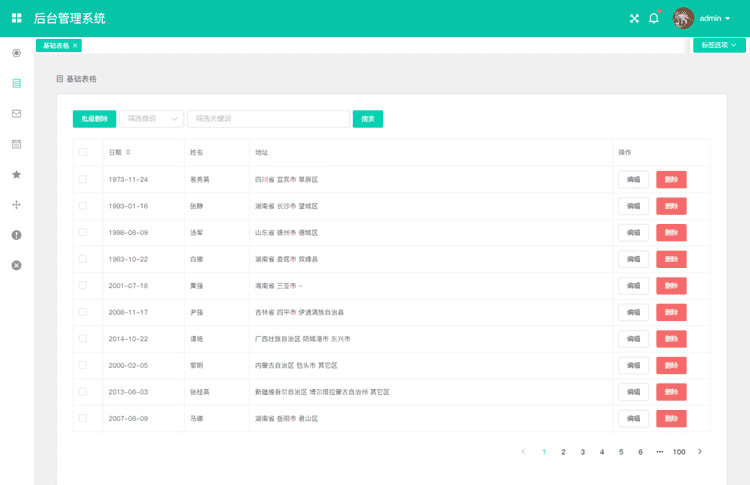
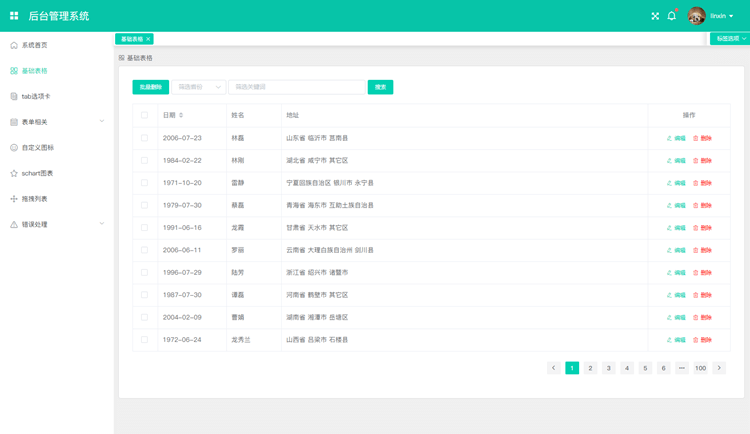
'修改页面图标和截图'

diff --git a/src/components/page/BaseCharts.vue b/src/components/page/BaseCharts.vue
@@ -2,8 +2,7 @@
     <div>
         <div class="crumbs">
             <el-breadcrumb separator="/">
-                <el-breadcrumb-item><i class="el-icon-date"></i> 图表</el-breadcrumb-item>
-                <el-breadcrumb-item>基础图表</el-breadcrumb-item>
+                <el-breadcrumb-item><i class="el-icon-lx-favor"></i> schart图表</el-breadcrumb-item>
             </el-breadcrumb>
         </div>
         <div class="container">

diff --git a/src/components/page/Markdown.vue b/src/components/page/Markdown.vue
@@ -2,7 +2,7 @@
     <div>
         <div class="crumbs">
             <el-breadcrumb separator="/">
-                <el-breadcrumb-item><i class="el-icon-date"></i> 表单</el-breadcrumb-item>
+                <el-breadcrumb-item><i class="el-icon-lx-calendar"></i> 表单</el-breadcrumb-item>
                 <el-breadcrumb-item>markdown编辑器</el-breadcrumb-item>
             </el-breadcrumb>
         </div>

diff --git a/src/components/page/BaseForm.vue b/src/components/page/BaseForm.vue
@@ -2,7 +2,7 @@
     <div>
         <div class="crumbs">
             <el-breadcrumb separator="/">
-                <el-breadcrumb-item><i class="el-icon-date"></i> 表单</el-breadcrumb-item>
+                <el-breadcrumb-item><i class="el-icon-lx-calendar"></i> 表单</el-breadcrumb-item>
                 <el-breadcrumb-item>基本表单</el-breadcrumb-item>
             </el-breadcrumb>
         </div>

diff --git a/src/components/page/Upload.vue b/src/components/page/Upload.vue
@@ -2,7 +2,7 @@
     <div>
         <div class="crumbs">
             <el-breadcrumb separator="/">
-                <el-breadcrumb-item><i class="el-icon-date"></i> 表单</el-breadcrumb-item>
+                <el-breadcrumb-item><i class="el-icon-lx-calendar"></i> 表单</el-breadcrumb-item>
                 <el-breadcrumb-item>图片上传</el-breadcrumb-item>
             </el-breadcrumb>
         </div>

diff --git a/src/components/page/VueEditor.vue b/src/components/page/VueEditor.vue
@@ -2,7 +2,7 @@
     <div>
         <div class="crumbs">
             <el-breadcrumb separator="/">
-                <el-breadcrumb-item><i class="el-icon-date"></i> 表单</el-breadcrumb-item>
+                <el-breadcrumb-item><i class="el-icon-lx-calendar"></i> 表单</el-breadcrumb-item>
                 <el-breadcrumb-item>编辑器</el-breadcrumb-item>
             </el-breadcrumb>
         </div>

diff --git a/src/components/page/BaseTable.vue b/src/components/page/BaseTable.vue
@@ -2,7 +2,7 @@
     <div class="table">
         <div class="crumbs">
             <el-breadcrumb separator="/">
-                <el-breadcrumb-item><i class="el-icon-tickets"></i> 基础表格</el-breadcrumb-item>
+                <el-breadcrumb-item><i class="el-icon-lx-cascades"></i> 基础表格</el-breadcrumb-item>
             </el-breadcrumb>
         </div>
         <div class="container">

diff --git a/src/components/page/Tabs.vue b/src/components/page/Tabs.vue
@@ -2,7 +2,7 @@
     <div class="">
         <div class="crumbs">
             <el-breadcrumb separator="/">
-                <el-breadcrumb-item><i class="el-icon-message"></i> tab选项卡</el-breadcrumb-item>
+                <el-breadcrumb-item><i class="el-icon-lx-copy"></i> tab选项卡</el-breadcrumb-item>
             </el-breadcrumb>
         </div>
         <div class="container">

diff --git a/src/components/page/Icon.vue b/src/components/page/Icon.vue
@@ -2,7 +2,7 @@
     <div>
         <div class="crumbs">
             <el-breadcrumb separator="/">
-                <el-breadcrumb-item><i class="el-icon-warning"></i> 自定义图标</el-breadcrumb-item>
+                <el-breadcrumb-item><i class="el-icon-lx-emoji"></i> 自定义图标</el-breadcrumb-item>
             </el-breadcrumb>
         </div>
         <div class="container">

diff --git a/src/components/page/Permission.vue b/src/components/page/Permission.vue
@@ -2,7 +2,7 @@
     <div>
         <div class="crumbs">
             <el-breadcrumb separator="/">
-                <el-breadcrumb-item><i class="el-icon-warning"></i> 权限测试</el-breadcrumb-item>
+                <el-breadcrumb-item><i class="el-icon-lx-warn"></i> 权限测试</el-breadcrumb-item>
             </el-breadcrumb>
         </div>
         <div class="container">
